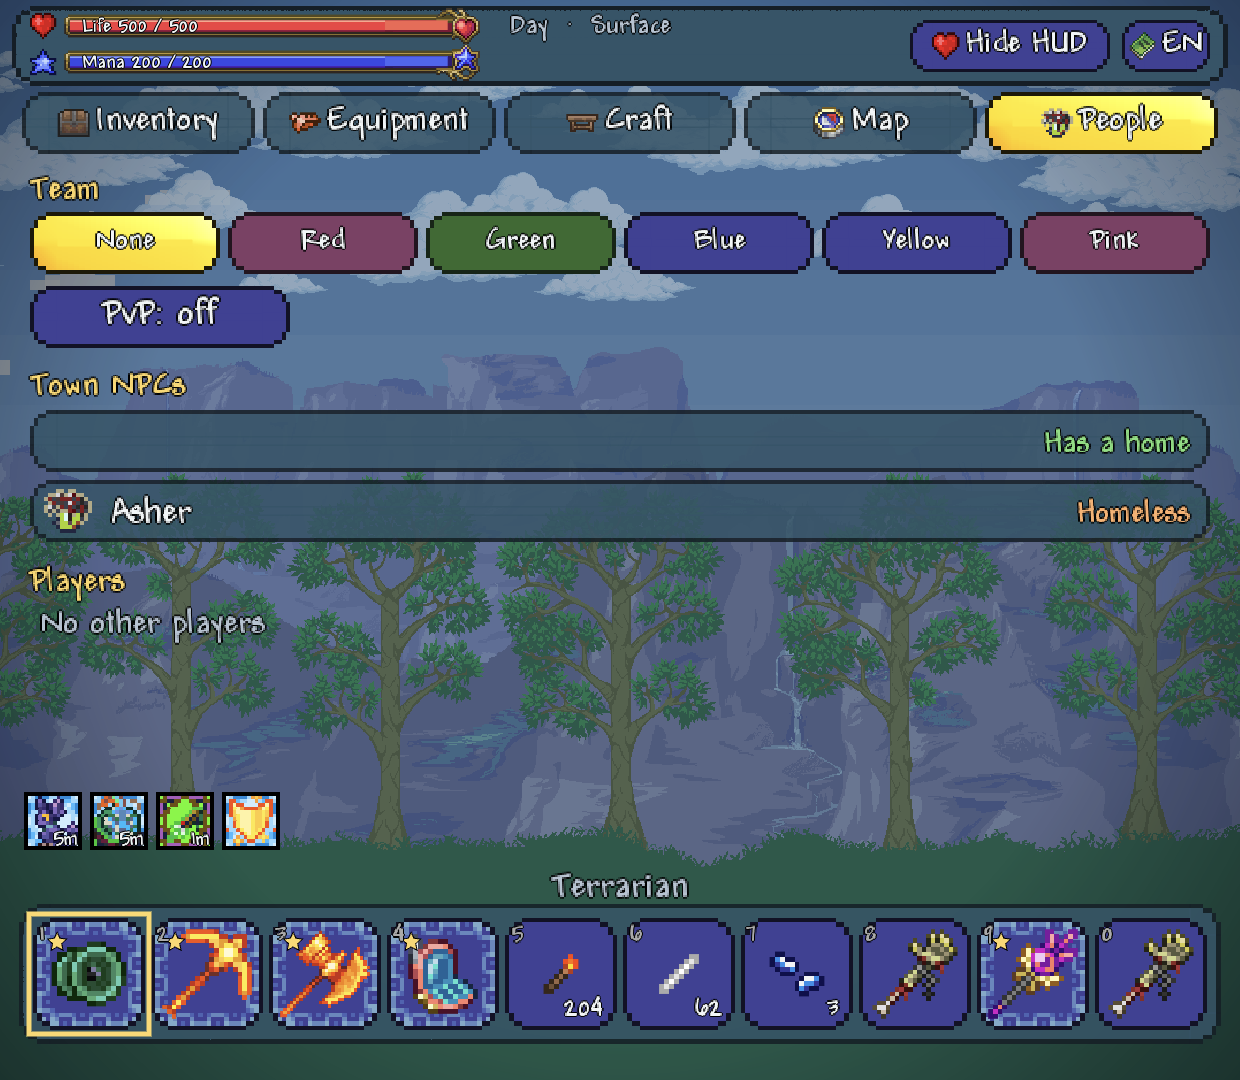
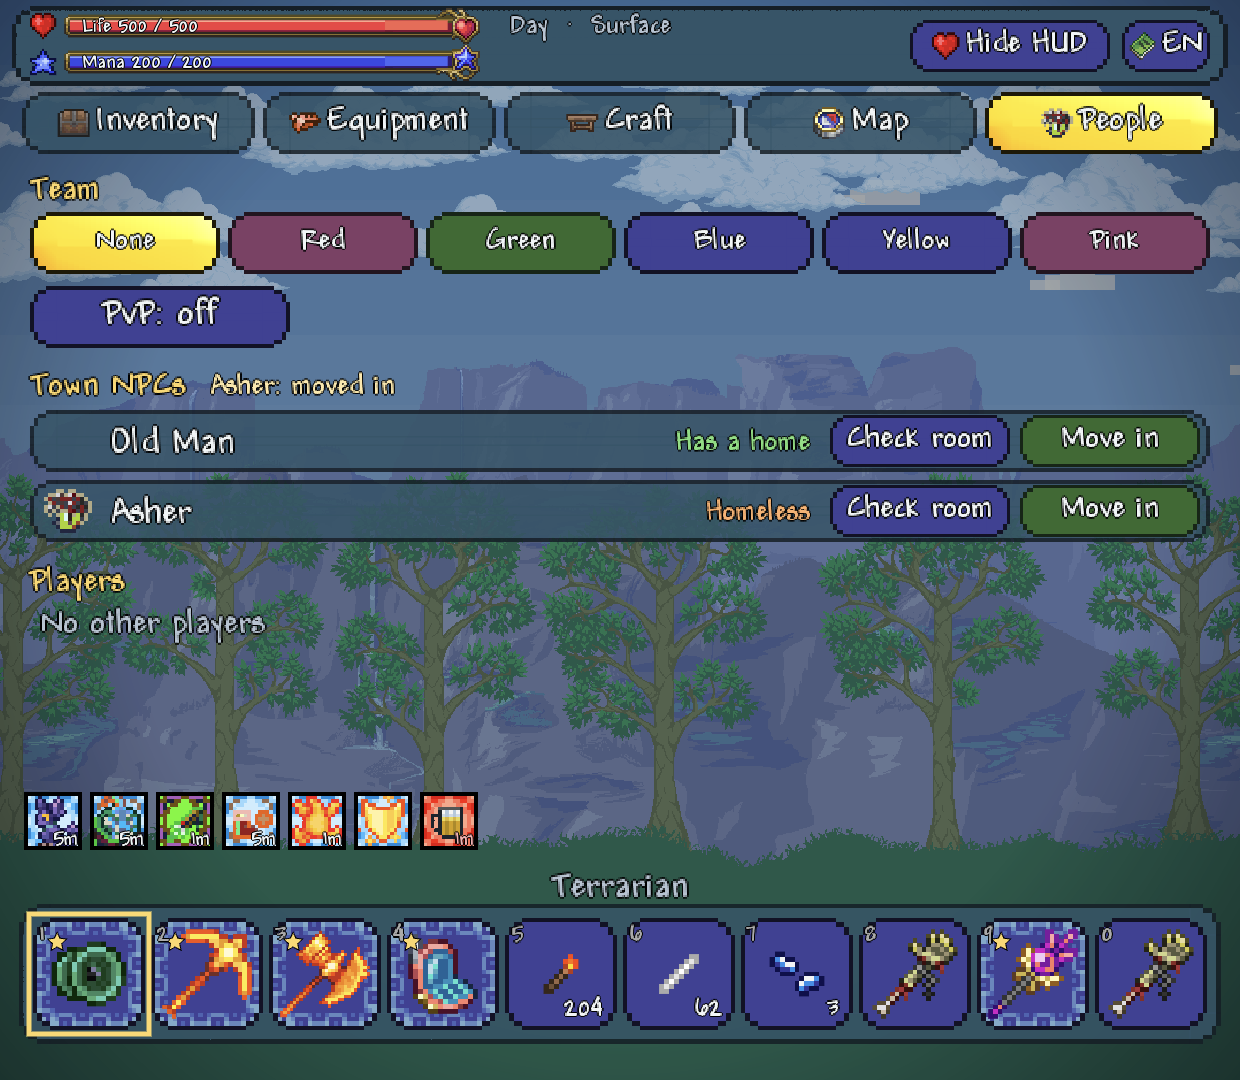
Housing move-in: judge by the NPC's new home, not the query's return value

diff --git a/src/tlpro/Modified/1.mod/actions.js b/src/tlpro/Modified/1.mod/actions.js
@@ -255,8 +255,14 @@ function housing(player, request) {
         if (!npc || !npc.active || !npc.townNPC) {
             throw new Error("Этого жителя больше нет");
         }
-        result.ok = !!WorldGenClass.MoveTownNPC(x, y, request.npc, feedback);
         result.npc = String(safe(() => npc.GivenName, "") || safe(() => npc.TypeName, ""));
+        // the game's return value only says the query was handled, so judge by what happened to the NPC's home
+        result.enclosed = !!WorldGenClass.StartRoomCheck(x, y, feedback);
+        result.ok = false;
+        if (result.enclosed) {
+            WorldGenClass.MoveTownNPC(x, y, request.npc, feedback);
+            result.ok = !npc.homeless && Math.abs(npc.homeTileX - x) <= 12 && Math.abs(npc.homeTileY - y) <= 12;
+        }
     } else {
         throw new Error("Неизвестная команда жилья");
     }

diff --git a/src/companion/java/com/terraduo/companion/TerraPanel.java b/src/companion/java/com/terraduo/companion/TerraPanel.java
@@ -1199,7 +1199,8 @@ final class TerraPanel extends View {
         JSONObject result = latest == null ? null : latest.optJSONObject("housing");
         if (result == null) return "";
         if ("move".equals(result.optString("command"))) {
-            return result.optString("npc") + ": " + Strings.get(result.optBoolean("ok") ? "house_moved" : "house_failed");
+            return result.optString("npc") + ": " + Strings.get(result.optBoolean("ok") ? "house_moved"
+                : result.optBoolean("enclosed", true) ? "house_failed" : "house_not_enclosed");
         }
         if (!result.optBoolean("enclosed")) return Strings.get("house_not_enclosed");
         JSONArray missing = result.optJSONArray("missing");
